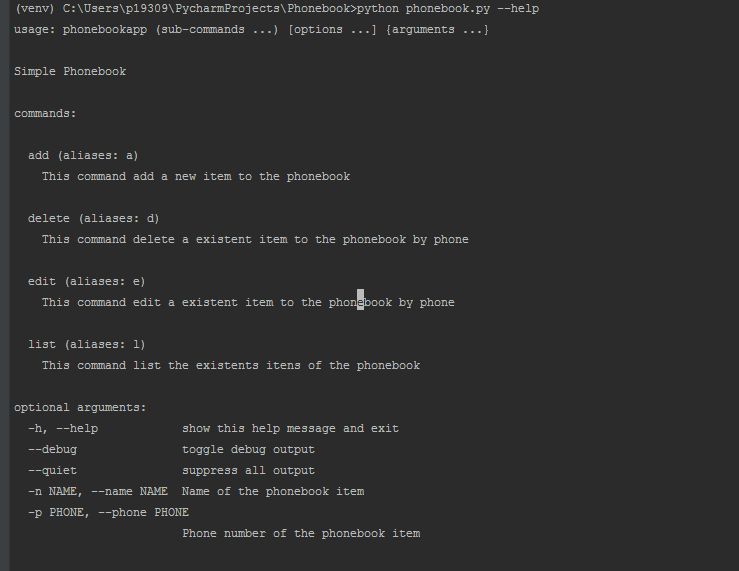
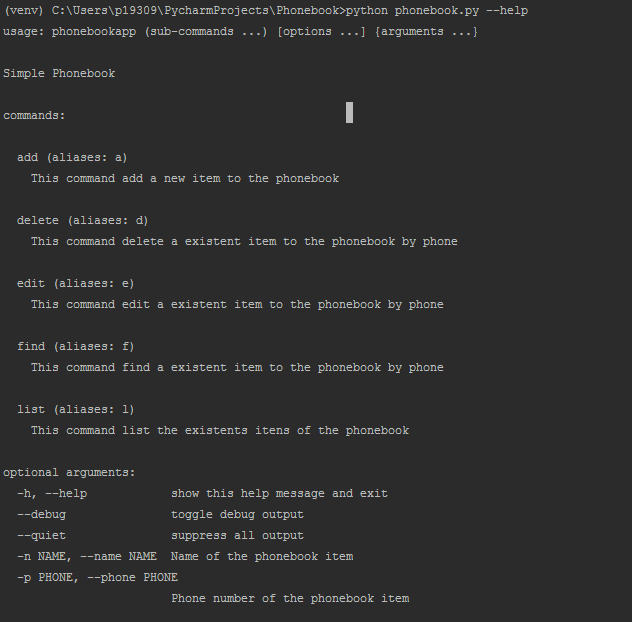
adicionando função find

diff --git a/controller.py b/controller.py
@@ -24,14 +24,15 @@ class PhonebookShellController(CementBaseController):
         self.list()
 
     @expose(aliases=['f'], help="This command find a existent item to the phonebook by phone")
-    def edit(self):
-        phonebook_dict = self.__repository.get_by_phone(self.app.pargs.phone)
+    def find(self):
+        phonebook_items = self.__repository.find(self.app.pargs.name, self.app.pargs.phone)
 
-        if not phonebook_dict:
-            self.app.log.info(f'Item with phone number {self.app.pargs.phone} was not found')
+        if len(phonebook_items) <= 0:
+            self.app.log.info(f'No Items was found')
             return
 
-        self.app.log.info(f'Name: {phonebook_dict["name"]} Phone: {phonebook_dict["phone"]}')
+        for phonebook_dict in phonebook_items:
+            self.app.log.info(f'Name: {phonebook_dict["name"]} Phone: {phonebook_dict["phone"]}')
 
     @expose(aliases=['a'], help="This command add a new item to the phonebook")
     def add(self):
@@ -50,8 +51,7 @@ class PhonebookShellController(CementBaseController):
 
         self.__repository.add(phonebook_dict)
 
-        self.app.log.info(f'Item with phone number {self.app.pargs.phone} was add') \
-
+        self.app.log.info(f'Item with phone number {self.app.pargs.phone} was add')
 
     @expose(aliases=['e'], help="This command edit a existent item to the phonebook by phone")
     def edit(self):

diff --git a/repository.py b/repository.py
@@ -22,6 +22,9 @@ class PhonebookRepository:
     def get_by_phone(self, phone):
         return next((x for x in self.objects if x['phone'] == phone), None)
 
+    def find(self, name, phone):
+        return [x for x in self.objects if x['name'] == name or x['phone'] == phone]
+
     def add(self, phonebook_dict):
         self.objects.append(phonebook_dict)
         self.commit()

diff --git a/README.md b/README.md
@@ -3,7 +3,7 @@ Simple phonebook shell in python
 
 ## Instructions
 
-1. Intall python
+1. Install python
 2. Clone this repository to your machine
 3. Run 
 ```python
@@ -16,6 +16,9 @@ pip install -r requirements.txt
 
 ### List
 ![alt text](screenshots/LIST.PNG "List phonebook items example")
+
+### Find
+![alt text](screenshots/FIND.PNG "Find phonebook item example")
 
 ### Add
 ![alt text](screenshots/ADD.PNG "Add phonebook item example")
